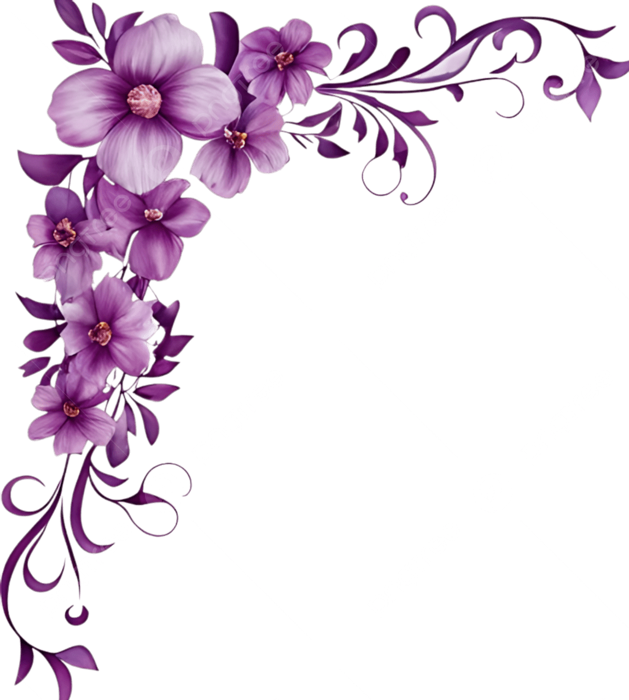
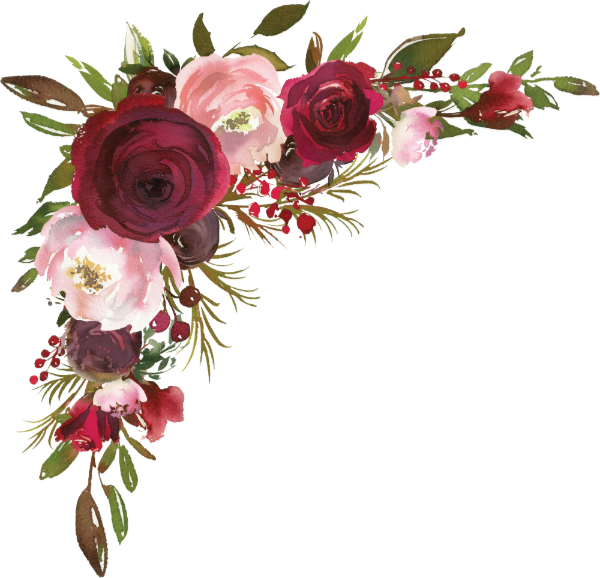
Add portraits, childhood and moment photos, venues, and new entrance art
- Gate: burgundy door with small brass lock and "Tap to enter"; toran frame in royal burgundy
- Corners: burgundy rose bouquet; favicon and app icons (S&A monogram)
- Bride & Groom: individual portraits; new "Once Upon a Time" childhood section
- Moments: real couple photos replace placeholders
- Celebrations: Reception (Groom) 28 Nov and Reception (Bride) 30 Nov
- Venues: one compact map card per venue
- Fix monogram border and footer name clipping; heart between names
- Fireworks run on phones and start after the hero scene is ready

diff --git a/components/Invitation.tsx b/components/Invitation.tsx
@@ -57,7 +57,7 @@ function Hero() {
           className="seq-couple absolute h-auto"
           style={{ left: "35.84%", top: "31.67%", width: "35.64%" }}
         />
-        <div className="seq-fx absolute inset-0"><Fireworks light /></div>
+        <div className="seq-fx absolute inset-0"><Fireworks light startAfter={{ htmlClass: "revealed", ms: 2800 }} /></div>
       </div>
       <div className="pb-3" />
     </section>
@@ -68,7 +68,7 @@ function Welcome() {
   return (
     <section className="px-8 pt-8">
       <ScrollReveal className="rounded-3xl border border-gold/20 bg-gradient-to-b from-white/25 to-white/45 px-5 py-5 text-center shadow-[0_10px_40px_rgba(212,164,57,.14)] backdrop-blur-[2px]">
-        <div className="mx-auto flex h-10 w-10 items-center justify-center whitespace-nowrap rounded-full border border-gold-dark/70 font-script text-sm text-gold-dark">
+        <div className="mx-auto flex h-16 w-16 items-center justify-center whitespace-nowrap rounded-full border border-gold-dark/70 pb-0.5 font-script text-[17px] leading-none tracking-tight text-gold-dark shadow-[inset_0_0_0_3px_rgba(255,247,234,.9),inset_0_0_0_4px_rgba(184,134,11,.35)]">
           {initials}
         </div>
         <p className="mt-2 text-[9px] uppercase tracking-[.3em] text-gold-dark">Together with their families</p>
@@ -106,7 +106,7 @@ function Celebrations() {
                 <div className="mt-1 text-[10px] uppercase tracking-[.25em] text-maroon/80">{month.slice(0, 3)} {year}</div>
               </div>
               <div className="min-w-0 flex-1 border-l border-gold/40 pl-4">
-                <h3 className="gold-text font-script text-3xl leading-tight">{e.name}</h3>
+                <h3 className="gold-text font-script text-[28px] leading-tight">{e.name}</h3>
                 {e.timeLabel && <p className="mt-0.5 inline-block rounded-full border border-gold-dark/40 px-3 py-0.5 text-[11px] uppercase tracking-[.2em] text-gold-dark">{e.timeLabel}</p>}
                 <p className="mt-1.5 text-xs text-maroon/90">📍 {e.venue}</p>
               </div>
@@ -130,6 +130,25 @@ function MeetCouple() {
           <img src="/couple.png" alt="Sai Kiran and Asha" className="h-full w-full object-cover object-[50%_50%] [filter:brightness(1.22)_contrast(.96)_saturate(1.08)]" />
         </div>
       </ScrollReveal>
+      <div className="mt-6 grid grid-cols-2 gap-4">
+        {[
+          { src: "/groom.jpg", name: wedding.groom, role: "The Groom", pos: "50% 22%" },
+          { src: "/bride.jpg", name: wedding.bride, role: "The Bride", pos: "62% 12%" },
+        ].map((p, i) => (
+          <ScrollReveal key={p.role} delay={i * 0.12}>
+            <figure className="tap-lift text-center">
+              <div className="ornate-frame aspect-[3/4] overflow-hidden rounded-t-[999px] shadow-[0_14px_30px_rgba(90,30,20,.3)]">
+                {/* eslint-disable-next-line @next/next/no-img-element */}
+                <img src={p.src} alt={p.name} className="h-full w-full object-cover" style={{ objectPosition: p.pos }} />
+              </div>
+              <figcaption className="mt-2">
+                <p className="text-[10px] uppercase tracking-[.3em] text-gold-dark">{p.role}</p>
+                <p className="font-script text-3xl leading-tight text-maroon-deep">{p.name}</p>
+              </figcaption>
+            </figure>
+          </ScrollReveal>
+        ))}
+      </div>
       <ScrollReveal delay={0.1}>
         <div className={`${block} tap-lift mt-6 text-center`}>
           <p className="font-script text-4xl leading-tight text-gold-dark">Two hearts, one journey</p>
@@ -142,23 +161,52 @@ function MeetCouple() {
   );
 }
 
-const ROT = [-3, 3, 3, -3];
+function Childhood() {
+  const kids = [
+    { src: "/groom-child.jpg", name: wedding.groom, line: "A little boy with big dreams", pos: "50% 18%", rot: -3 },
+    { src: "/bride-child.jpg", name: wedding.bride, line: "A little princess with a big smile", pos: "50% 22%", rot: 3 },
+  ];
+  return (
+    <section className="px-5 pt-12">
+      <SectionTitle eyebrow="Where it all began" title="Once Upon a Time" />
+      <div className="grid grid-cols-2 gap-5">
+        {kids.map((k, i) => (
+          <ScrollReveal key={k.name} delay={i * 0.12}>
+            <figure className="tap-lift relative bg-ivory p-2 pb-12 shadow-[0_14px_28px_rgba(90,30,20,.3)]" style={{ transform: `rotate(${k.rot}deg)` }}>
+              {/* eslint-disable-next-line @next/next/no-img-element */}
+              <img src={k.src} alt={`${k.name} as a child`} className="aspect-[4/5] w-full object-cover" style={{ objectPosition: k.pos }} />
+              <figcaption className="absolute inset-x-0 bottom-1.5 text-center font-script text-2xl leading-none text-maroon">{k.name}</figcaption>
+            </figure>
+          </ScrollReveal>
+        ))}
+      </div>
+      <ScrollReveal delay={0.1}>
+        <div className="glass tap-lift mt-7 rounded-3xl px-5 py-4 text-center">
+          <p className="font-script text-4xl leading-tight text-gold-dark">Two little stories</p>
+          <p className="mt-1.5 font-serif text-base leading-relaxed text-maroon/90">
+            Long before they met, two sweet children were growing up under different roofs, never knowing that life was quietly
+            writing them into the same story. Today, that story becomes forever.
+          </p>
+        </div>
+      </ScrollReveal>
+    </section>
+  );
+}
 
 function Gallery() {
   return (
     <section className="px-5 pt-12">
       <SectionTitle eyebrow="Our story, so far" title="Moments" />
-      <div className="grid grid-cols-2 gap-5">
+      <div className="space-y-8">
         {photos.map((ph, i) => (
-          <ScrollReveal key={ph.src} delay={(i % 2) * 0.12}>
-          <figure
-            className="relative bg-ivory p-2 pb-8 shadow-[0_14px_28px_rgba(90,30,20,.3)] transition-transform duration-300 [transform:rotate(var(--r))] hover:z-10 hover:[transform:rotate(0deg)_scale(1.06)] active:[transform:rotate(0deg)_scale(1.06)]"
-            style={{ ["--r" as string]: `${ROT[i % ROT.length]}deg` }}
-          >
-            {/* eslint-disable-next-line @next/next/no-img-element */}
-            <img src={ph.src} alt={ph.caption} className="aspect-[4/5] w-full object-cover" />
-            <figcaption className="absolute inset-x-0 bottom-1 text-center font-script text-xl text-maroon">{ph.caption}</figcaption>
-          </figure>
+          <ScrollReveal key={ph.src}>
+            <figure
+              className={`relative w-[84%] bg-ivory p-2.5 pb-4 shadow-[0_16px_32px_rgba(90,30,20,.32)] transition-transform duration-300 [transform:rotate(var(--r))] hover:z-10 hover:[transform:rotate(0deg)_scale(1.03)] active:[transform:rotate(0deg)_scale(1.03)] ${i % 2 ? "ml-auto" : ""}`}
+              style={{ ["--r" as string]: `${i % 2 ? 2.5 : -2.5}deg` }}
+            >
+              {/* eslint-disable-next-line @next/next/no-img-element */}
+              <img src={ph.src} alt={ph.caption} className="aspect-[3/4] w-full object-cover" style={{ objectPosition: ph.pos }} />
+            </figure>
           </ScrollReveal>
         ))}
       </div>
@@ -169,11 +217,17 @@ function Gallery() {
 export default function Invitation() {
   return (
     <>
+      {/* sacred symbols: transparent cut-out with a soft brown edge so the white Namam shows on ivory */}
+      <header className="px-10 pb-0 pt-4">
+        {/* eslint-disable-next-line @next/next/no-img-element */}
+        <img src="/symbols.png" alt="Sudarshana Chakra, Namam and Shankha" className="mx-auto block h-auto w-[48%] [filter:drop-shadow(0_0_.6px_#6b4410)_drop-shadow(0_0_.6px_#6b4410)_drop-shadow(0_2px_3px_rgba(90,40,10,.25))]" />
+      </header>
       <Hero />
       <Welcome />
       <ScratchCard />
       <Celebrations />
       <MeetCouple />
+      <Childhood />
       <Gallery />
     </>
   );

diff --git a/components/Gate.tsx b/components/Gate.tsx
@@ -42,7 +42,7 @@ export default function Gate() {
   const ART_W = "max(100cqw, 53.69cqh)";
   const door = (left: boolean) => (
     <div
-      className={`absolute top-0 h-full w-1/2 overflow-hidden bg-[#1f4a3a] ${left ? "left-0 origin-left" : "right-0 origin-right"} transition-[transform,filter] duration-[1600ms] ${ease}`}
+      className={`absolute top-0 h-full w-1/2 overflow-hidden bg-[#5e0f1f] ${left ? "left-0 origin-left" : "right-0 origin-right"} transition-[transform,filter] duration-[1600ms] ${ease}`}
       style={{
         // hinged on the outer edge, the door swings away from the viewer like a real door opening inward
         transform: cardOpen ? `rotateY(${left ? 105 : -105}deg)` : "none",
@@ -78,20 +78,32 @@ export default function Gate() {
 
         {/* overlay box that matches the artwork exactly, so positions below are percentages of the image */}
         <div className="absolute left-1/2 top-1/2 aspect-[800/1490] -translate-x-1/2 -translate-y-1/2" style={{ width: ART_W }}>
-          {/* names in gold, in the green band between the Ganesha emblem and the arch */}
+          {/* names in gold, in the burgundy band between the Ganesha emblem and the arch */}
           <div className={`absolute inset-x-0 top-[19.2%] text-center transition-opacity duration-500 ${cardOpen ? "opacity-0" : "opacity-100"}`}>
             <p className="whitespace-nowrap font-serif text-[17px] font-semibold uppercase tracking-[.28em] text-[#f6e3a1] drop-shadow-[0_1px_3px_rgba(0,0,0,.7)]">
               {wedding.groom} <span className="mx-1 text-[#e8c872]">&amp;</span> {wedding.bride}
             </p>
           </div>
 
-          {/* a golden padlock holds the doors shut: tap it to unlock */}
+          {/* brass rod threaded through both door rings; the padlock hangs from its middle */}
+          <svg viewBox="0 0 800 1490" preserveAspectRatio="none" className={`pointer-events-none absolute inset-0 h-full w-full transition-opacity duration-300 ${cardOpen ? "opacity-0" : "opacity-100"}`} aria-hidden>
+            <defs>
+              <linearGradient id="rod" x1="0" y1="0" x2="0" y2="1">
+                <stop offset="0" stopColor="#f6e3a0" /><stop offset=".45" stopColor="#b98a2e" /><stop offset="1" stopColor="#5a3b0a" />
+              </linearGradient>
+            </defs>
+            <rect x="300" y="716" width="200" height="12" rx="6" fill="#000" opacity=".35" transform="translate(0 5)" />
+            <rect x="300" y="709" width="200" height="11" rx="5.5" fill="url(#rod)" stroke="#3a2406" strokeWidth="1.2" />
+            {[302, 498].map((x) => <circle key={x} cx={x} cy="714.5" r="9" fill="url(#rod)" stroke="#3a2406" strokeWidth="1.2" />)}
+          </svg>
+
+          {/* a small golden padlock holds the doors shut: tap it to unlock */}
           <button
             type="button" onClick={start} aria-label="Unlock and open the invitation"
-            className={`pointer-events-auto absolute left-1/2 top-[56%] -translate-x-1/2 -translate-y-1/2 ${cardOpen ? "opacity-0 transition-opacity duration-300" : ""} ${unlocking ? "pointer-events-none" : ""}`}
+            className={`pointer-events-auto absolute left-1/2 top-[47.9%] -translate-x-1/2 ${cardOpen ? "opacity-0 transition-opacity duration-300" : ""} ${unlocking ? "pointer-events-none" : ""}`}
           >
             <span className={`lock mx-auto block w-fit ${unlocking ? "lock-open" : "lock-idle"}`}>
-              <svg viewBox="0 0 140 190" className="block w-[118px] drop-shadow-[0_10px_12px_rgba(0,0,0,.55)]" aria-hidden>
+              <svg viewBox="0 0 140 190" className="block w-[10.5cqw] min-w-[40px] max-w-[54px] drop-shadow-[0_5px_5px_rgba(0,0,0,.6)]" aria-hidden>
                 <defs>
                   <linearGradient id="brass" x1="0" y1="0" x2="1" y2="1">
                     <stop offset="0" stopColor="#f3dc8e" /><stop offset=".3" stopColor="#c9993a" /><stop offset=".65" stopColor="#8e6218" /><stop offset="1" stopColor="#d6ad54" />
@@ -146,8 +158,8 @@ export default function Gate() {
                 <path d="M26 95 q28 -7 62 -4" fill="none" stroke="#fff" strokeOpacity=".4" strokeWidth="3" strokeLinecap="round" />
               </svg>
             </span>
-            <span className={`mt-2 block whitespace-nowrap text-center text-[10px] font-semibold uppercase tracking-[.35em] text-[#fff2c8] [text-shadow:0_1px_3px_rgba(0,0,0,.8)] transition-opacity duration-300 ${unlocking ? "opacity-0" : "opacity-100"}`}>
-              Tap to unlock
+            <span className={`mt-2 block whitespace-nowrap text-center text-[10px] font-semibold uppercase tracking-[.35em] text-[#fff2c8] [text-shadow:0_1px_3px_rgba(0,0,0,.9)] transition-opacity duration-300 ${unlocking ? "opacity-0" : "opacity-100"}`}>
+              Tap to enter
             </span>
           </button>
         </div>

diff --git a/components/GardenFinale.tsx b/components/GardenFinale.tsx
@@ -2,7 +2,7 @@
 
 import Countdown from "./Countdown";
 import { SectionTitle } from "./Reveal";
-import { events, wedding } from "@/lib/config";
+import { events, venues, wedding } from "@/lib/config";
 
 const pad = (n: number) => String(n).padStart(2, "0");
 const stamp = (d: Date) => `${d.getFullYear()}${pad(d.getMonth() + 1)}${pad(d.getDate())}T${pad(d.getHours())}${pad(d.getMinutes())}00`;
@@ -28,8 +28,6 @@ function share() {
 }
 
 export default function GardenFinale() {
-  const q = encodeURIComponent(wedding.mapsQuery);
-  const mapHref = `https://www.google.com/maps/search/?api=1&query=${q}`;
   const btn = "rounded-full px-6 py-3.5 text-xs font-medium";
 
   return (
@@ -37,16 +35,24 @@ export default function GardenFinale() {
       <Countdown />
 
       <section>
-        <SectionTitle eyebrow="Where" title="The Venue" />
-        <div className="glass overflow-hidden rounded-3xl p-3 text-center">
-          <p className="mt-2 font-serif text-2xl text-maroon-deep">{wedding.venue}</p>
-          <p className="mb-3 mt-1 text-sm text-maroon/80">{wedding.address}</p>
-          <iframe
-            title={`Map of ${wedding.venue}`}
-            src={`https://www.google.com/maps?q=${q}&output=embed`}
-            className="h-52 w-full rounded-2xl border-0" loading="lazy" referrerPolicy="no-referrer-when-downgrade"
-          />
-          <a href={mapHref} target="_blank" rel="noopener noreferrer" className={`gold-btn mb-2 mt-4 inline-block ${btn}`}>OPEN IN GOOGLE MAPS</a>
+        <SectionTitle eyebrow="Where" title="The Venues" />
+        <div className="space-y-2.5">
+          {venues.map((v) => {
+            const vq = encodeURIComponent(v.query);
+            return (
+              <div key={v.query} className="glass overflow-hidden rounded-2xl p-2 text-center">
+                <p className="text-[9px] uppercase tracking-[.3em] text-gold-dark">{v.event}</p>
+                <p className="font-serif text-base leading-tight text-maroon-deep">{v.name}</p>
+                <p className="mb-1.5 text-[11px] text-maroon/80">{v.address}</p>
+                <iframe
+                  title={`Map of ${v.name}`}
+                  src={`https://www.google.com/maps?q=${vq}&output=embed`}
+                  className="h-20 w-full rounded-lg border-0" loading="lazy" referrerPolicy="no-referrer-when-downgrade"
+                />
+                <a href={`https://www.google.com/maps/search/?api=1&query=${vq}`} target="_blank" rel="noopener noreferrer" className="gold-btn mt-2 inline-block rounded-full px-4 py-1.5 text-[9px] font-medium">OPEN IN GOOGLE MAPS</a>
+              </div>
+            );
+          })}
         </div>
       </section>
 
@@ -63,8 +69,12 @@ export default function GardenFinale() {
       </section>
 
       <footer className="text-center">
-        <p className="gold-text font-script text-5xl">{wedding.groom} &amp; {wedding.bride}</p>
-        <p className="mt-1 text-xs font-medium uppercase tracking-[.3em] text-maroon">With love, always</p>
+        <p className="flex items-center justify-center gap-1.5 whitespace-nowrap pt-5 font-script text-[clamp(30px,10.5vw,48px)] leading-[1.5]">
+          <span className="gold-text px-1 pt-2">{wedding.groom}</span>
+          <span className="text-[.7em] text-ruby drop-shadow-[0_2px_4px_rgba(179,18,46,.35)]" aria-label="and">♥</span>
+          <span className="gold-text px-1 pt-2">{wedding.bride}</span>
+        </p>
+        <p className="mt-2 text-xs font-medium uppercase tracking-[.3em] text-maroon">With love, always</p>
       </footer>
     </section>
   );

diff --git a/components/Fireworks.tsx b/components/Fireworks.tsx
@@ -10,16 +10,18 @@ type Rocket = { x: number; y: number; vy: number; targetY: number; color: string
 
 /** Rockets streak up and burst into gold/pink sparks. Pauses when off-screen or `enabled()` is false. */
 export default function Fireworks({
-  enabled, rate = 1, light = false, className = "",
-}: { enabled?: () => boolean; rate?: number; light?: boolean; className?: string }) {
+  enabled, rate = 1, light = false, startAfter, className = "",
+}: { enabled?: () => boolean; rate?: number; light?: boolean; startAfter?: { htmlClass: string; ms: number }; className?: string }) {
   const ref = useRef<HTMLCanvasElement>(null);
 
   useEffect(() => {
     const cv = ref.current;
     const ctx = cv?.getContext("2d");
-    if (!cv || !ctx || window.matchMedia("(prefers-reduced-motion: reduce)").matches) return;
+    // decorative, and phones often have "reduce motion" on: still run it, just calmer
+    if (!cv || !ctx) return;
+    const calm = window.matchMedia("(prefers-reduced-motion: reduce)").matches;
 
-    let W = 0, H = 0, raf = 0, visible = true, last = performance.now(), wait = 0;
+    let W = 0, H = 0, raf = 0, visible = true, last = performance.now(), wait = 0, readyAt = 0;
     const sparks: Spark[] = [];
     const rockets: Rocket[] = [];
     const PAL = light ? LIGHT : COLORS;
@@ -59,7 +61,13 @@ export default function Fireworks({
       raf = requestAnimationFrame(frame);
       const dt = Math.min(2.5, (t - last) / 16.67);
       last = t;
-      if (!visible || (enabled && !enabled())) {
+      // optionally hold off until <html> has the class (e.g. "revealed") for `ms`, so the show starts once the scene is ready
+      let held = false;
+      if (startAfter) {
+        if (!document.documentElement.classList.contains(startAfter.htmlClass)) { readyAt = 0; held = true; }
+        else { if (!readyAt) readyAt = t; if (t - readyAt < startAfter.ms) held = true; }
+      }
+      if (held || !visible || (enabled && !enabled())) {
         if (sparks.length || rockets.length) { sparks.length = 0; rockets.length = 0; }
         ctx.clearRect(0, 0, W, H);
         return;
@@ -70,7 +78,7 @@ export default function Fireworks({
       ctx.globalCompositeOperation = light ? "source-over" : "lighter";
 
       wait -= dt;
-      if (wait <= 0) { launch(); if (Math.random() < 0.35) launch(); wait = rnd(30, 75) / rate; }
+      if (wait <= 0) { launch(); if (Math.random() < 0.35) launch(); wait = rnd(30, 75) / (rate * (calm ? 0.6 : 1)); }
 
       for (let i = rockets.length - 1; i >= 0; i--) {
         const r = rockets[i];

diff --git a/lib/config.ts b/lib/config.ts
@@ -13,12 +13,18 @@ export const wedding = {
 
 export const events = [
   { name: "Wedding", date: "26 November 2026", time: "9:41 AM", timeLabel: "Muhurtam · 9:41 AM", venue: "Shri Venkataramana Temple, Shri Kshetra Manjuguni, Sirsi", note: "", featured: true },
-  { name: "Reception", date: "28 November 2026", time: "12:00 PM", timeLabel: "12:00 PM onwards", venue: "SSK Function Hall", note: "" },
+  { name: "Reception (Groom)", date: "28 November 2026", time: "12:00 PM", timeLabel: "12:00 PM onwards", venue: "SSK Function Hall, Chennapet, Hubli", note: "" },
+  { name: "Reception (Bride)", date: "30 November 2026", time: "11:30 AM", timeLabel: "11:30 AM onwards", venue: "Sri Saileela Ranga Mandira, Hosapete", note: "" },
+];
+
+// One map card per venue (the query is what Google Maps searches for)
+export const venues = [
+  { event: "Wedding", name: "Shri Venkataramana Temple", address: "Shri Kshetra Manjuguni, Sirsi", query: "Shri Venkataramana Temple, Manjuguni, Sirsi" },
+  { event: "Reception (Groom)", name: "SSK Function Hall", address: "Chennapet, Hubli", query: "SSK Function Hall, Chennapet, Hubli" },
+  { event: "Reception (Bride)", name: "Sri Saileela Ranga Mandira", address: "Hosapete", query: "Sri Saileela Ranga Mandira, Hosapete" },
 ];
 
 export const photos = [
-  { src: "/photos/1.svg", caption: "The first hello" },
-  { src: "/photos/2.svg", caption: "Chai & chatter" },
-  { src: "/photos/3.svg", caption: "The proposal" },
-  { src: "/photos/4.svg", caption: "Roka day" },
-]; // replace with real photos (jpg/png/webp) in /public/photos
+  { src: "/photos/moment-1.jpg", caption: "Forehead to forehead", pos: "50% 52%" },
+  { src: "/photos/moment-2.jpg", caption: "Under the palms", pos: "50% 100%" },
+]; // add more real photos (jpg/png/webp) in /public/photos

diff --git a/app/globals.css b/app/globals.css
@@ -121,13 +121,13 @@ html.revealed .splash {
   100% { transform: none; opacity: 1; }
 }
 html.revealed .seq-names { animation: namesRise 2.4s cubic-bezier(.22,.8,.3,1) 4.8s backwards; }
-html.revealed .seq-fx { animation: seqFade 2s ease 5.2s backwards; }
+html.revealed .seq-fx { animation: seqFade 1.4s ease 2.8s backwards; }
 
 /* gate lock: gentle sway while it waits, then the shackle pops open and the whole lock drops away */
 @keyframes lockSway { 0%, 100% { transform: rotate(-3deg); } 50% { transform: rotate(3deg); } }
 @keyframes lockGlow { 0%, 100% { filter: drop-shadow(0 0 0 rgba(255,225,140,0)); } 50% { filter: drop-shadow(0 0 14px rgba(255,225,140,.9)); } }
 @keyframes lockDrop { 0%, 55% { transform: translateY(0) rotate(0); opacity: 1; } 100% { transform: translateY(46px) rotate(12deg); opacity: 0; } }
-.lock { transform-origin: 50% 0; }
+.lock { transform-origin: 50% 29%; }
 .lock-idle { animation: lockSway 3s ease-in-out infinite, lockGlow 2.4s ease-in-out infinite; }
 .lock-open { animation: lockDrop 1s ease-in forwards; }
 .lock-shackle { transform-box: fill-box; transform-origin: 100% 100%; transition: transform .45s cubic-bezier(.3,1.5,.5,1); }

diff --git a/components/CornerFlowers.tsx b/components/CornerFlowers.tsx
@@ -9,14 +9,14 @@ const CORNERS = [
 
 export default function CornerFlowers() {
   return (
-    <div aria-hidden className="pointer-events-none fixed inset-0 z-40 overflow-hidden">
+    <div aria-hidden className="pointer-events-none fixed inset-x-0 top-0 z-40 h-screen overflow-hidden [transform:translateZ(0)]">
       {CORNERS.map((c) => (
         <div key={c.pos} className={`absolute ${c.pos} ${c.flip}`}>
           {/* eslint-disable-next-line @next/next/no-img-element */}
           <img
             src="/floral-corner.png"
             alt=""
-            className="bloom h-auto w-[clamp(84px,22vw,300px)]"
+            className="bloom h-auto w-[clamp(96px,28vw,300px)]"
             style={{ ["--bloom-d" as string]: `${c.delay}s`, ["--bloom-o" as string]: c.origin, ["--bloom-r" as string]: `${c.rot}deg` }}
           />
         </div>
